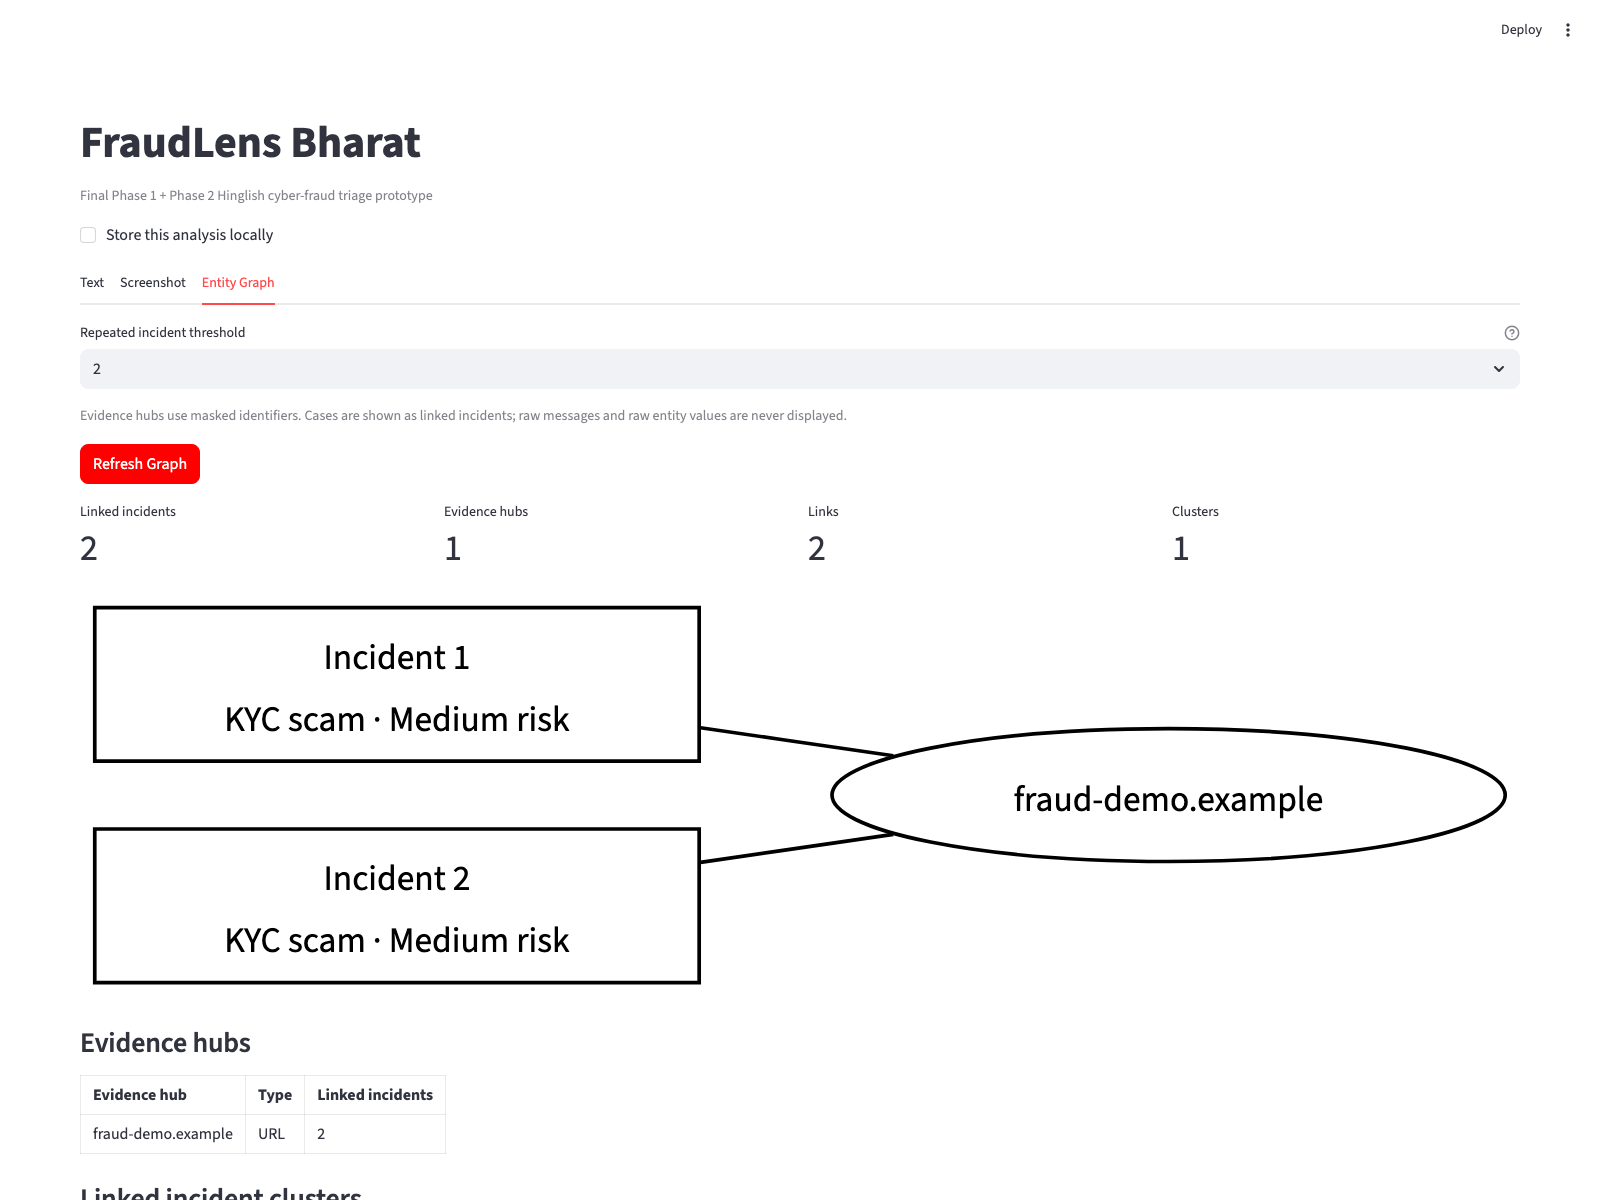
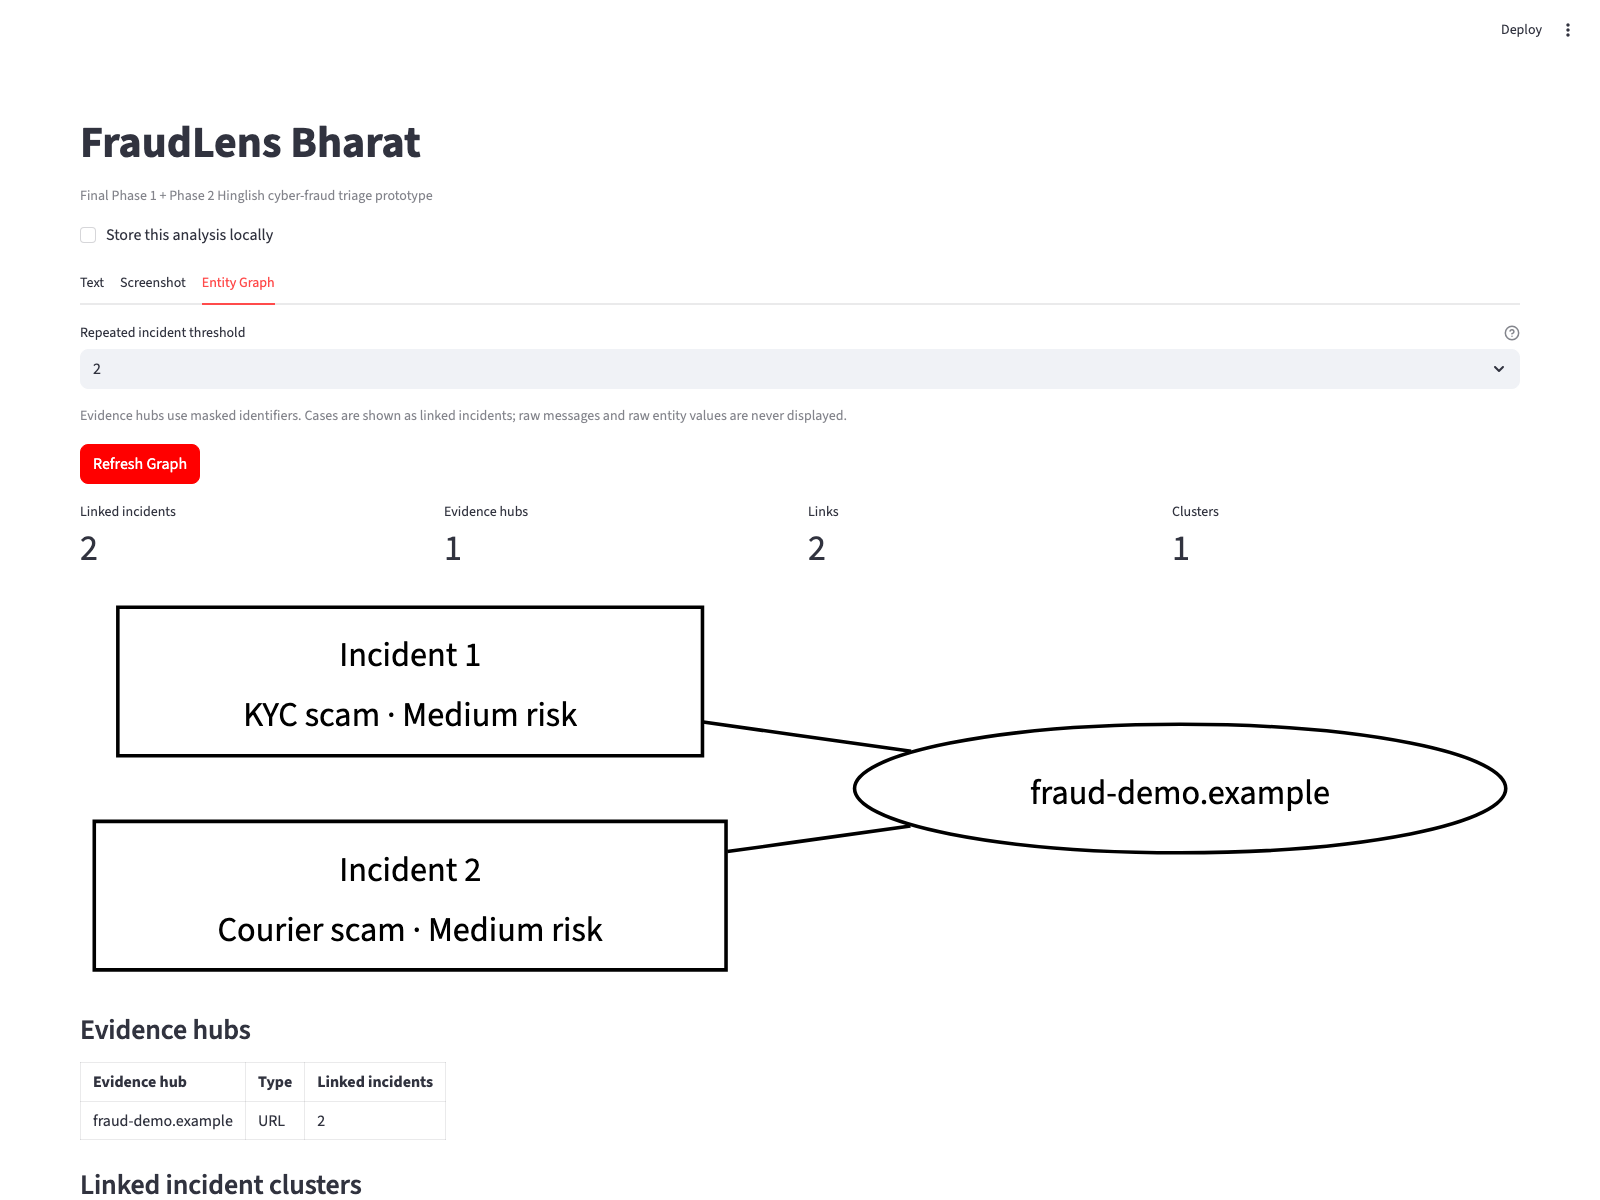
fix: bind final evidence to source metrics

diff --git a/src/fraudlens/presentation_evidence.py b/src/fraudlens/presentation_evidence.py
@@ -22,6 +22,14 @@ _ORANGE = "#F29E4C"
 _RED = "#C44536"
 _BLUE = "#2F6BFF"
 _CREAM = "#F7F9FC"
+_MODEL_DISPLAY_NAMES = {
+    "rule_only": "Rules",
+    "word_tfidf_logistic_regression": "Word TF-IDF",
+    "character_tfidf_logistic_regression": "Character TF-IDF",
+    "word_character_tfidf_logistic_regression": "Word + character",
+    "calibrated_word_character_tfidf": "Calibrated hybrid",
+    "calibrated_tfidf": "Calibrated TF-IDF",
+}
 _CLAIM_BOUNDARY = (
     "Internal synthetic evidence only; the research candidate is not the deployed model "
     "and no production-accuracy claim is made."
@@ -45,6 +53,10 @@ def _number(value: str):
 
 def _sha256(path: Path) -> str:
     return hashlib.sha256(path.read_bytes()).hexdigest()
+
+
+def _display_model_name(model_id: str) -> str:
+    return _MODEL_DISPLAY_NAMES.get(model_id, model_id.replace("_", " ").title())
 
 
 def _build_payload(repo_root: Path):
@@ -84,8 +96,38 @@ def _build_payload(repo_root: Path):
         }
         for row in robustness_rows
     ]
+    deployed_runtime = {
+        "name": "calibrated_tfidf",
+        "accuracy": round(test_metrics["overall_accuracy_with_abstentions"], 8),
+        "macro_f1": round(test_metrics["macro_f1_all_predictions"], 8),
+        "coverage": round(test_metrics["coverage"], 8),
+        "abstention_rate": round(test_metrics["abstention_rate"], 8),
+        "accepted_accuracy": round(test_metrics["accepted_accuracy"], 8),
+    }
+    runtime_confusion_matrix = final_runtime_evaluation["confusion_matrix"]
+    model_ids = [row["model"] for row in research_candidates]
+    robustness_conditions = list(
+        dict.fromkeys(row["condition"] for row in robustness)
+    )
+    runtime_rows = sum(sum(row) for row in runtime_confusion_matrix)
+    chart_contract = {
+        "classification_model_ids": model_ids,
+        "classification_model_labels": [
+            _display_model_name(model_id) for model_id in model_ids
+        ],
+        "robustness_conditions": robustness_conditions,
+        "runtime_display_name": _display_model_name(deployed_runtime["name"]),
+        "runtime_summary": (
+            "{} synthetic test rows | Accuracy {:.3f} | Macro-F1 {:.3f} | Coverage {:.3f}"
+        ).format(
+            runtime_rows,
+            deployed_runtime["accuracy"],
+            deployed_runtime["macro_f1"],
+            deployed_runtime["coverage"],
+        ),
+    }
     return {
-        "schema_version": 1,
+        "schema_version": 2,
         "dataset": {
             "rows": dataset["rows"],
             "train_rows": dataset["split_rows"]["train"],
@@ -95,18 +137,12 @@ def _build_payload(repo_root: Path):
             "legitimate_label_present": "legitimate" not in dataset["missing_labels"],
             "phase2_target_met": dataset["phase2_target_met"],
         },
-        "deployed_runtime": {
-            "name": "calibrated_tfidf",
-            "accuracy": round(test_metrics["overall_accuracy_with_abstentions"], 8),
-            "macro_f1": round(test_metrics["macro_f1_all_predictions"], 8),
-            "coverage": round(test_metrics["coverage"], 8),
-            "abstention_rate": round(test_metrics["abstention_rate"], 8),
-            "accepted_accuracy": round(test_metrics["accepted_accuracy"], 8),
-        },
-        "runtime_confusion_matrix": final_runtime_evaluation["confusion_matrix"],
+        "deployed_runtime": deployed_runtime,
+        "runtime_confusion_matrix": runtime_confusion_matrix,
         "runtime_labels": final_runtime_evaluation["confusion_matrix_labels"],
         "research_candidates": research_candidates,
         "robustness": robustness,
+        "chart_contract": chart_contract,
         "claim_boundary": _CLAIM_BOUNDARY,
         "sources": {
             str(path.relative_to(repo_root)): _sha256(path)
@@ -182,7 +218,7 @@ def _architecture_figure(output_path: Path) -> Path:
 
 def _comparison_figure(payload, output_path: Path) -> Path:
     rows = payload["research_candidates"]
-    labels = ["Rules", "Word", "Character", "Word + char", "Calibrated hybrid"]
+    labels = payload["chart_contract"]["classification_model_labels"]
     x = np.arange(len(rows))
     width = 0.25
     fig, axis = plt.subplots(figsize=(12, 9))
@@ -208,13 +244,9 @@ def _comparison_figure(payload, output_path: Path) -> Path:
 
 
 def _robustness_figure(payload, output_path: Path) -> Path:
-    models = []
-    conditions = []
-    for row in payload["robustness"]:
-        if row["model"] not in models:
-            models.append(row["model"])
-        if row["condition"] not in conditions:
-            conditions.append(row["condition"])
+    contract = payload["chart_contract"]
+    models = contract["classification_model_ids"]
+    conditions = contract["robustness_conditions"]
     matrix = np.array([
         [
             next(row["macro_f1"] for row in payload["robustness"] if row["model"] == model and row["condition"] == condition)
@@ -222,19 +254,23 @@ def _robustness_figure(payload, output_path: Path) -> Path:
         ]
         for model in models
     ])
-    model_labels = ["Rules", "Word", "Character", "Word + char", "Calibrated hybrid"]
+    model_labels = contract["classification_model_labels"]
     condition_labels = [condition.replace("_", " ") for condition in conditions]
     fig, axis = plt.subplots(figsize=(12, 9))
     sns.heatmap(
         matrix, annot=True, fmt=".3f", cmap="YlGnBu", vmin=0, vmax=0.75,
         xticklabels=condition_labels, yticklabels=model_labels, cbar_kws={"label": "Macro-F1"}, ax=axis,
     )
-    axis.set_title("Robustness under deterministic language and OCR noise", loc="left", fontsize=20, fontweight="bold", color=_NAVY, pad=18)
+    fig.suptitle(
+        "Robustness under deterministic language and OCR noise",
+        fontsize=20, fontweight="bold", color=_NAVY, y=0.96,
+    )
     axis.set_xlabel("Condition")
     axis.set_ylabel("Research candidate")
     axis.tick_params(axis="x", rotation=28)
+    axis.tick_params(axis="y", rotation=0, labelsize=9)
     fig.text(0.08, 0.03, "Eight-row synthetic frozen test; perturbations are simulations, not a labelled OCR benchmark.", fontsize=10, color="#486581")
-    fig.subplots_adjust(left=0.20, right=0.94, top=0.88, bottom=0.20)
+    fig.subplots_adjust(left=0.28, right=0.94, top=0.88, bottom=0.20)
     return _save_figure(fig, output_path)
 
 
@@ -243,12 +279,18 @@ def _confusion_figure(payload, output_path: Path) -> Path:
     matrix = np.array(payload["runtime_confusion_matrix"])
     fig, axis = plt.subplots(figsize=(12, 9))
     sns.heatmap(matrix, annot=True, fmt="d", cmap="Blues", cbar=False, xticklabels=labels, yticklabels=labels, ax=axis, linewidths=0.5)
-    axis.set_title("Deployed calibrated runtime - frozen test confusion matrix", loc="left", fontsize=19, fontweight="bold", color=_NAVY, pad=18)
+    contract = payload["chart_contract"]
+    axis.set_title(
+        "Deployed {} - frozen test confusion matrix".format(
+            contract["runtime_display_name"]
+        ),
+        loc="left", fontsize=19, fontweight="bold", color=_NAVY, pad=18,
+    )
     axis.set_xlabel("Final prediction (abstentions are unknown overall errors)")
     axis.set_ylabel("True label")
     axis.tick_params(axis="x", rotation=34)
     axis.tick_params(axis="y", rotation=0)
-    fig.text(0.10, 0.03, "8 synthetic rows, one per fraud class | Accuracy 0.500 | Macro-F1 0.500 | Coverage 0.875", fontsize=10, color="#486581")
+    fig.text(0.10, 0.03, contract["runtime_summary"], fontsize=10, color="#486581")
     fig.subplots_adjust(left=0.22, right=0.96, top=0.87, bottom=0.25)
     return _save_figure(fig, output_path)
 

diff --git a/tests/test_presentation_evidence.py b/tests/test_presentation_evidence.py
@@ -28,6 +28,7 @@ def test_presentation_evidence_uses_current_runtime_and_research_metrics(tmp_pat
     payload = json.loads((tmp_path / "final_evidence.json").read_text(encoding="utf-8"))
 
     assert {path.name for path in written} == {"final_evidence.json", *EXPECTED_IMAGES}
+    assert payload["schema_version"] == 2
     assert payload["dataset"] == {
         "rows": 64,
         "train_rows": 48,
@@ -55,6 +56,34 @@ def test_presentation_evidence_uses_current_runtime_and_research_metrics(tmp_pat
     assert payload["runtime_labels"][-1] == "unknown"
     assert len(payload["runtime_confusion_matrix"]) == 9
     assert all(len(row) == 9 for row in payload["runtime_confusion_matrix"])
+    assert payload["chart_contract"] == {
+        "classification_model_ids": [
+            "rule_only",
+            "word_tfidf_logistic_regression",
+            "character_tfidf_logistic_regression",
+            "word_character_tfidf_logistic_regression",
+            "calibrated_word_character_tfidf",
+        ],
+        "classification_model_labels": [
+            "Rules",
+            "Word TF-IDF",
+            "Character TF-IDF",
+            "Word + character",
+            "Calibrated hybrid",
+        ],
+        "robustness_conditions": [
+            "clean",
+            "case_and_punctuation",
+            "whitespace",
+            "hinglish_spelling",
+            "digit_masking",
+            "ocr_confusion",
+        ],
+        "runtime_display_name": "Calibrated TF-IDF",
+        "runtime_summary": (
+            "8 synthetic test rows | Accuracy 0.500 | Macro-F1 0.500 | Coverage 0.875"
+        ),
+    }
     assert payload["claim_boundary"] == (
         "Internal synthetic evidence only; the research candidate is not the deployed model "
         "and no production-accuracy claim is made."

diff --git a/tests/test_demo_evidence.py b/tests/test_demo_evidence.py
@@ -16,17 +16,11 @@ ROOT = Path(__file__).resolve().parents[1]
 
 def test_release_model_classifies_every_named_demo_as_advertised():
     service = create_analysis_service(Settings.from_env())
-    expected_labels = {
-        "Fake KYC SMS": "kyc_scam",
-        "OTP Phishing": "otp_phishing",
-        "Fake Job Scam": "fake_job",
-        "Investment Scam": "investment_scam",
-    }
 
-    for name, text in dashboard.DEMO_MESSAGES.items():
-        result = service.analyze(AnalysisInput(text=text, store_case=False))
+    for case in generate_demo_cases.DEMO_CASE_CATALOG:
+        result = service.analyze(AnalysisInput(text=case.text, store_case=False))
 
-        assert result.predicted_label == expected_labels[name], name
+        assert result.predicted_label == case.expected_label, case.button_label
         assert result.metadata["prediction_abstained"] is False
 
 
@@ -113,6 +107,8 @@ def test_graph_demo_preparation_creates_two_safely_linked_cases(tmp_path):
     )
 
     assert [result.case_id for result in results] == ["graph-demo-1", "graph-demo-2"]
+    assert [result.predicted_label for result in results] == ["kyc_scam", "courier_scam"]
+    assert all(result.metadata["prediction_abstained"] is False for result in results)
     assert all(result.metadata["stored"] is True for result in results)
     assert graph.summary.case_count == 2
     assert graph.summary.entity_count == 1

diff --git a/src/fraudlens/generate_demo_cases.py b/src/fraudlens/generate_demo_cases.py
@@ -26,7 +26,8 @@ _GRAPH_DEMO_MESSAGES = (
     ),
     (
         "graph-demo-2",
-        "Courier release fee pending. Verify at https://fraud-demo.example/claim today.",
+        "Your courier package is detained. Pay customs delivery fee at "
+        "https://fraud-demo.example/claim to release parcel.",
     ),
 )
 
